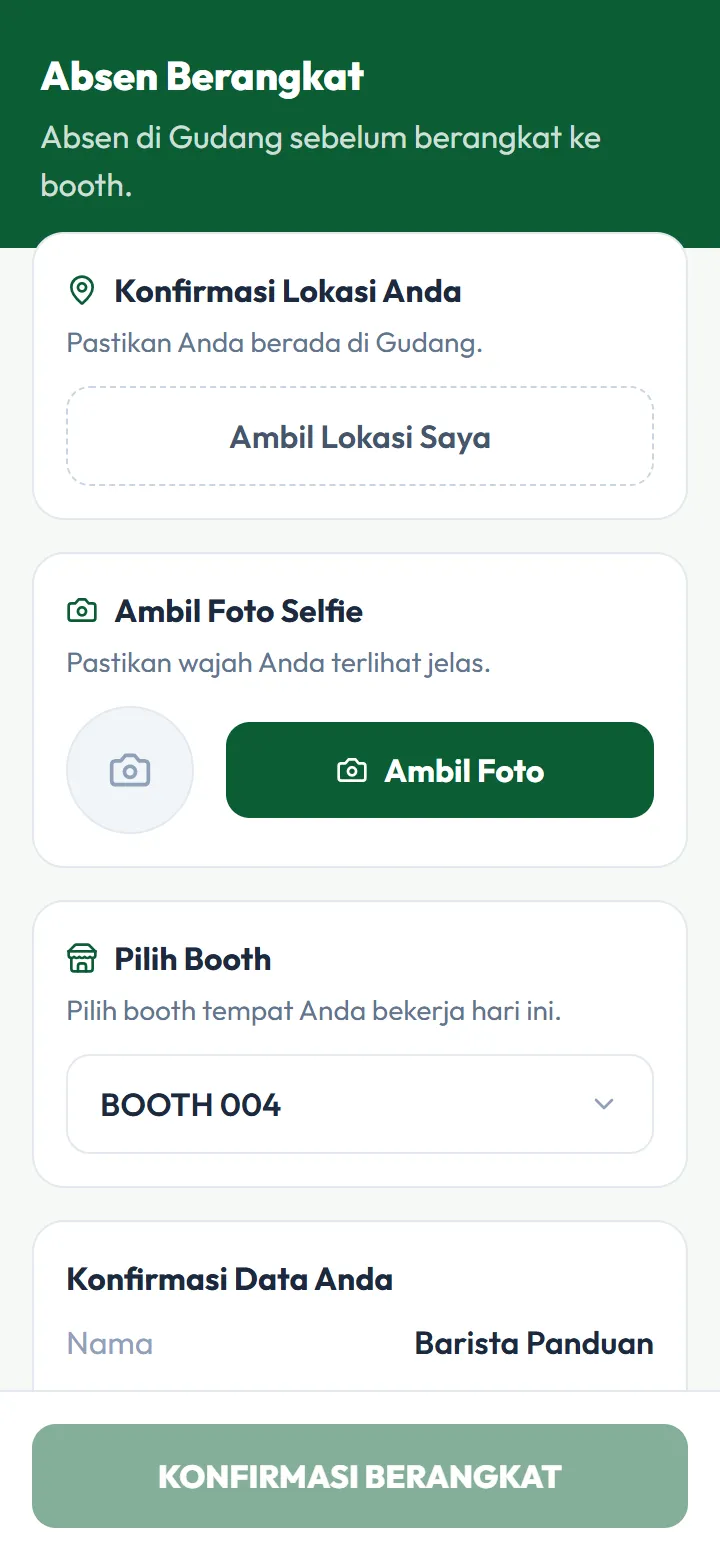
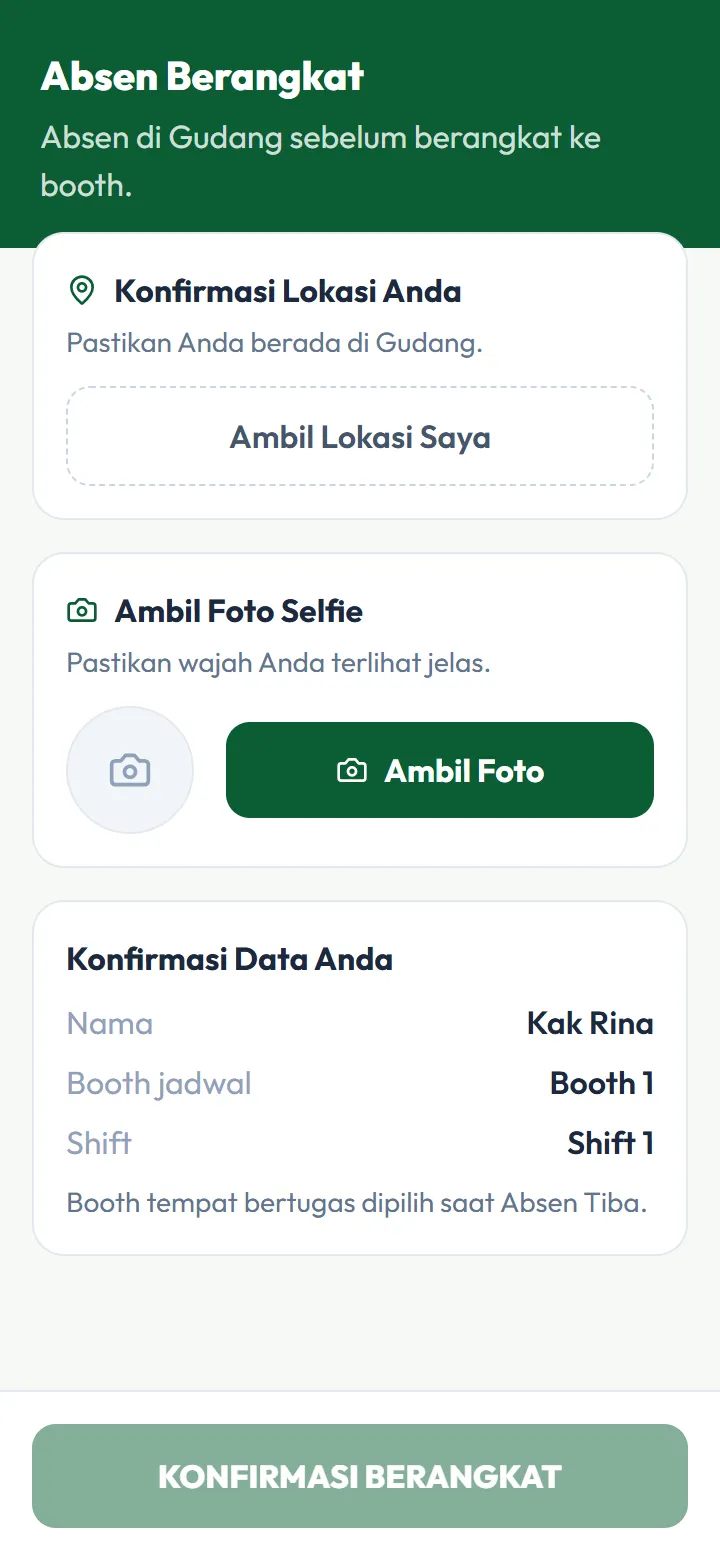
docs(admin_web): refresh the Barista Berangkat and Tiba guide screenshots
Berangkat no longer has a booth picker and Tiba now chooses the booth, so
the guide images showed the old screens. Recapture barista-berangkat-1 and
barista-tiba-1 from the local dev database. The Berangkat page now fits one
screen, so drop barista-berangkat-2 (identical to -1), its capture recipe
and the unused scroll helper.

Alur Harian now lists Terima Stok before Absen Tiba: stock is received at
the warehouse before the Barista leaves, and the Tiba guide already asks to
receive every delivery first.

diff --git a/apps/admin_web/src/app/panduan/konten/index.ts b/apps/admin_web/src/app/panduan/konten/index.ts
@@ -12,8 +12,8 @@ export const SEMUA_LAYAR: LayarPanduan[] = [...LAYAR_BARISTA, ...LAYAR_ADMIN];
 export const ALUR_HARIAN: LangkahAlur[] = [
   { peran: "barista", judul: "Absen Berangkat", isi: "Barista absen di Gudang dan menerima uang jalan. Shift dimulai.", layar: "barista-berangkat" },
   { peran: "admin", judul: "Kirim stok", isi: "Admin mengirim stok ke Barista yang sedang aktif. Stok Gudang berkurang.", layar: "admin-serah-terima-stok" },
-  { peran: "barista", judul: "Absen Tiba di Booth", isi: "Barista absen begitu sampai di Booth.", layar: "barista-tiba" },
-  { peran: "barista", judul: "Terima Stok", isi: "Barista mencocokkan kiriman lalu mengonfirmasi penerimaan. Stok Booth bertambah.", layar: "barista-terima-stok" },
+  { peran: "barista", judul: "Terima Stok", isi: "Barista mencocokkan kiriman di Gudang lalu mengonfirmasi penerimaan. Stok Booth bertambah.", layar: "barista-terima-stok" },
+  { peran: "barista", judul: "Absen Tiba di Booth", isi: "Barista absen begitu sampai di Booth. Kasir terbuka.", layar: "barista-tiba" },
   { peran: "barista", judul: "Berjualan", isi: "Barista mencatat setiap penjualan di Kasir.", layar: "barista-kasir" },
   { peran: "barista", judul: "Ajukan restock", isi: "Bila stok menipis, Barista mengajukan restock. Admin memprosesnya di Serah Terima Stok.", layar: "barista-stok" },
   { peran: "admin", judul: "Pantau Booth", isi: "Admin memantau penjualan, stok, dan lokasi Booth secara real-time.", layar: "admin-booth-aktif" },

diff --git a/apps/admin_web/src/app/panduan/konten/barista.ts b/apps/admin_web/src/app/panduan/konten/barista.ts
@@ -42,10 +42,7 @@ export const LAYAR_BARISTA: LayarPanduan[] = [
     judul: "Absen Berangkat",
     ringkasan: "Absen di Gudang sebelum berangkat ke Booth. Absen ini membuka shift Anda.",
     tanpaShift: true,
-    gambar: [
-      { file: "barista-berangkat-1.webp", keterangan: "Konfirmasi Lokasi Anda dan Ambil Foto Selfie." },
-      { file: "barista-berangkat-2.webp", keterangan: "Konfirmasi Data Anda sebelum KONFIRMASI BERANGKAT." },
-    ],
+    gambar: [{ file: "barista-berangkat-1.webp", keterangan: "Konfirmasi lokasi, foto selfie, dan Konfirmasi Data Anda sebelum KONFIRMASI BERANGKAT." }],
     langkah: [
       { judul: "Ambil lokasi", isi: "Ketuk Ambil Lokasi Saya. Pastikan Anda berada di Gudang." },
       { judul: "Ambil foto selfie", isi: "Ketuk Ambil Foto, lalu potret wajah Anda dengan jelas." },
